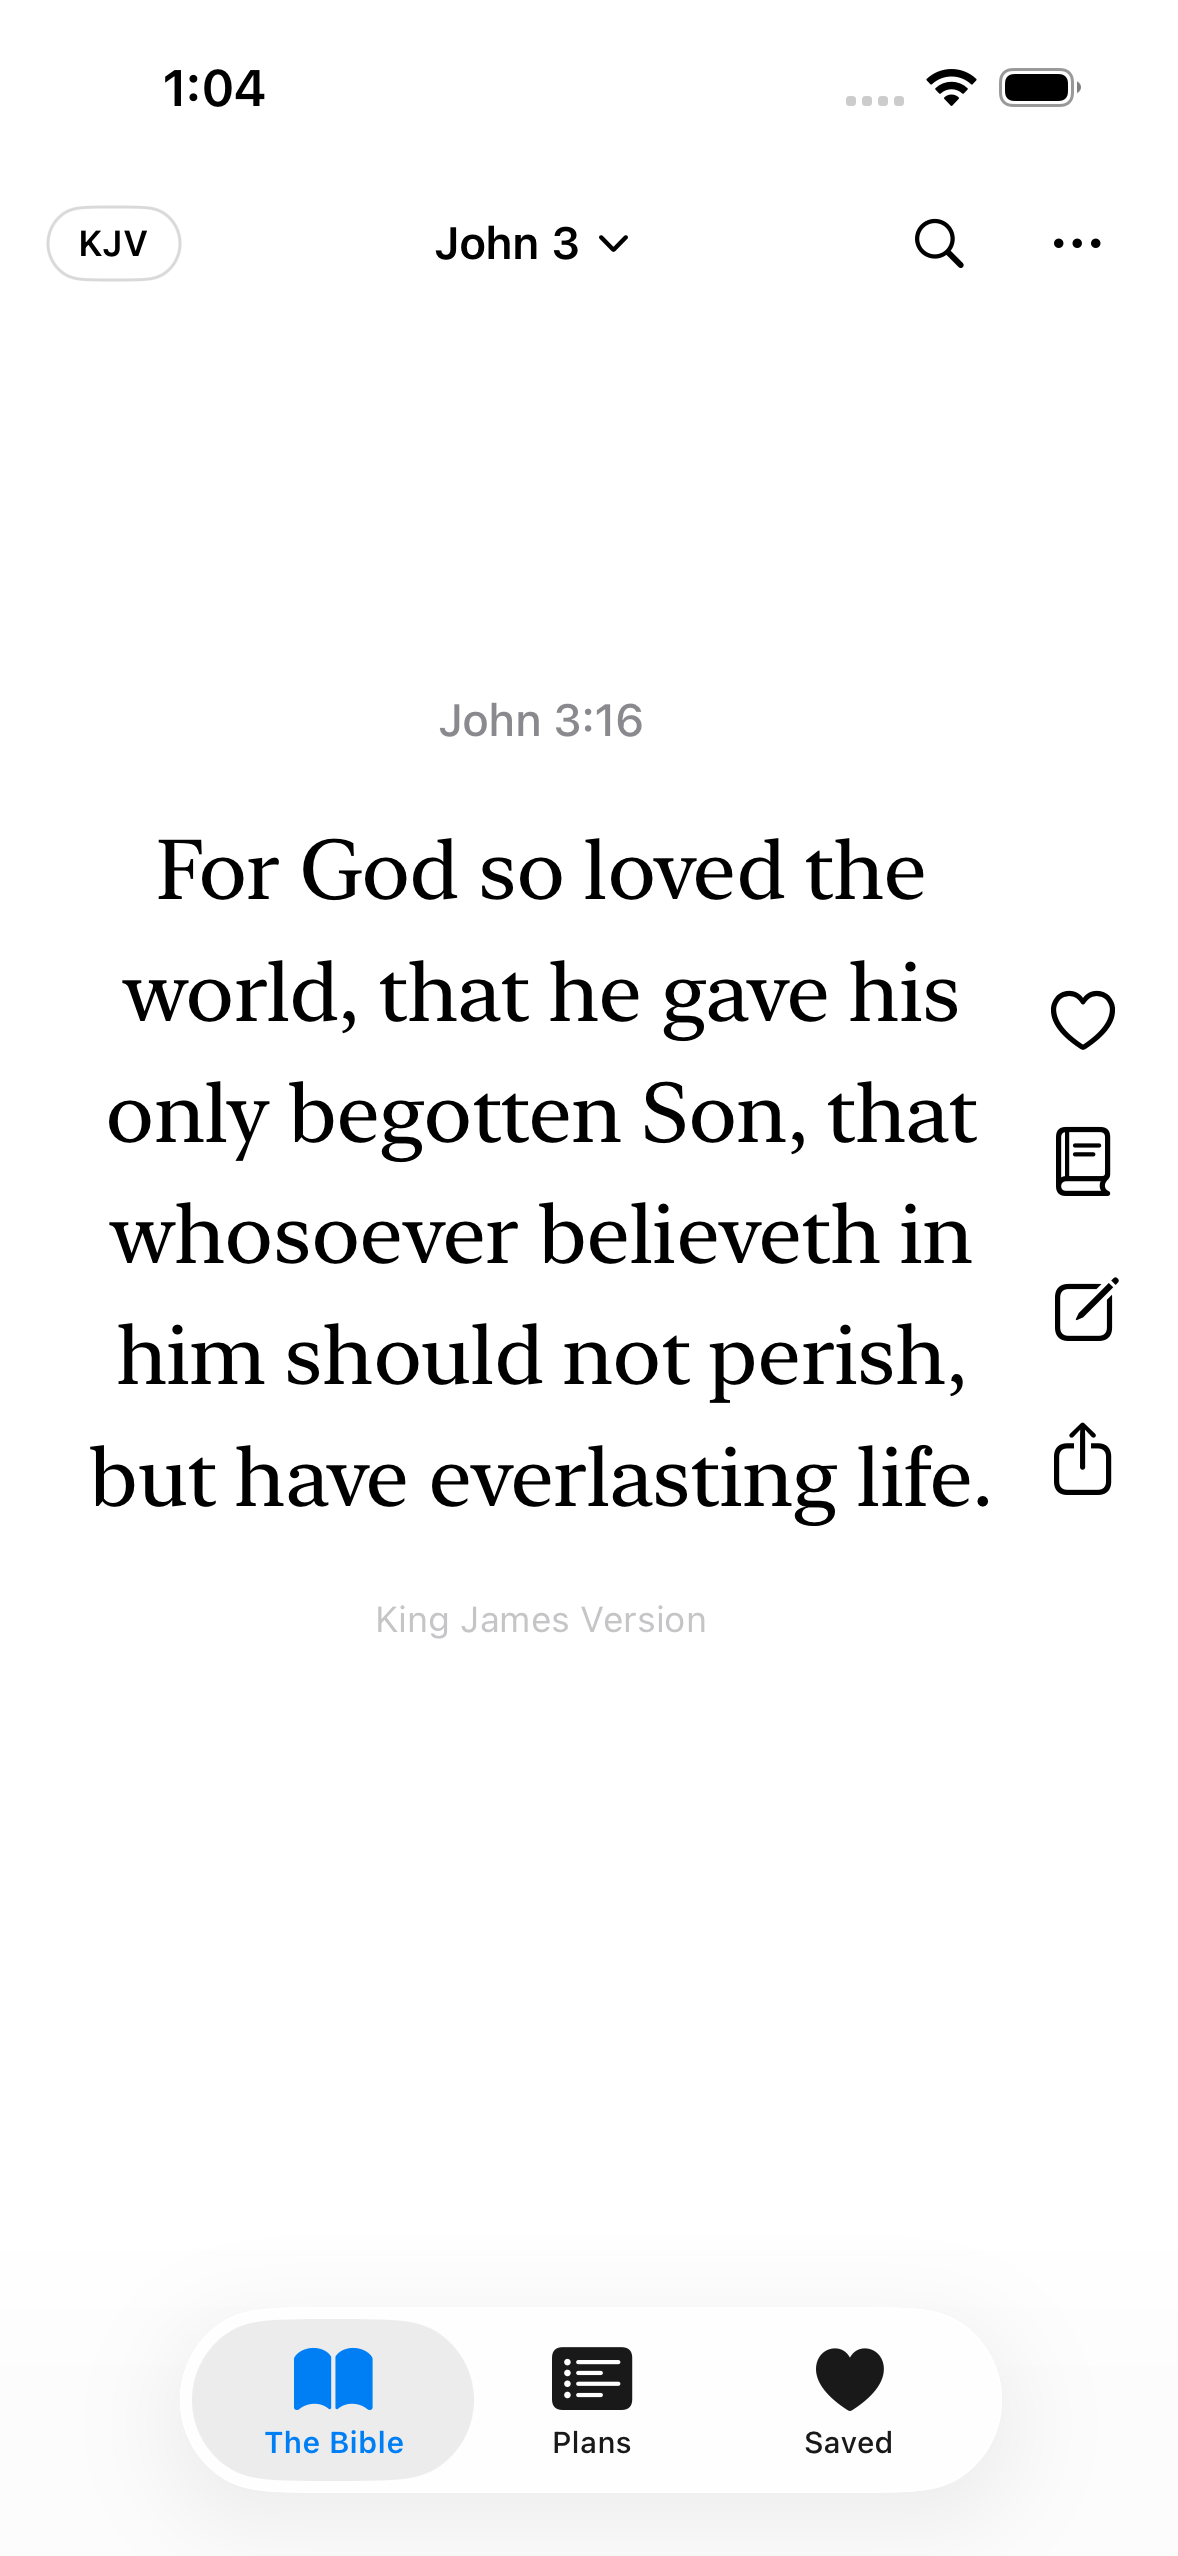
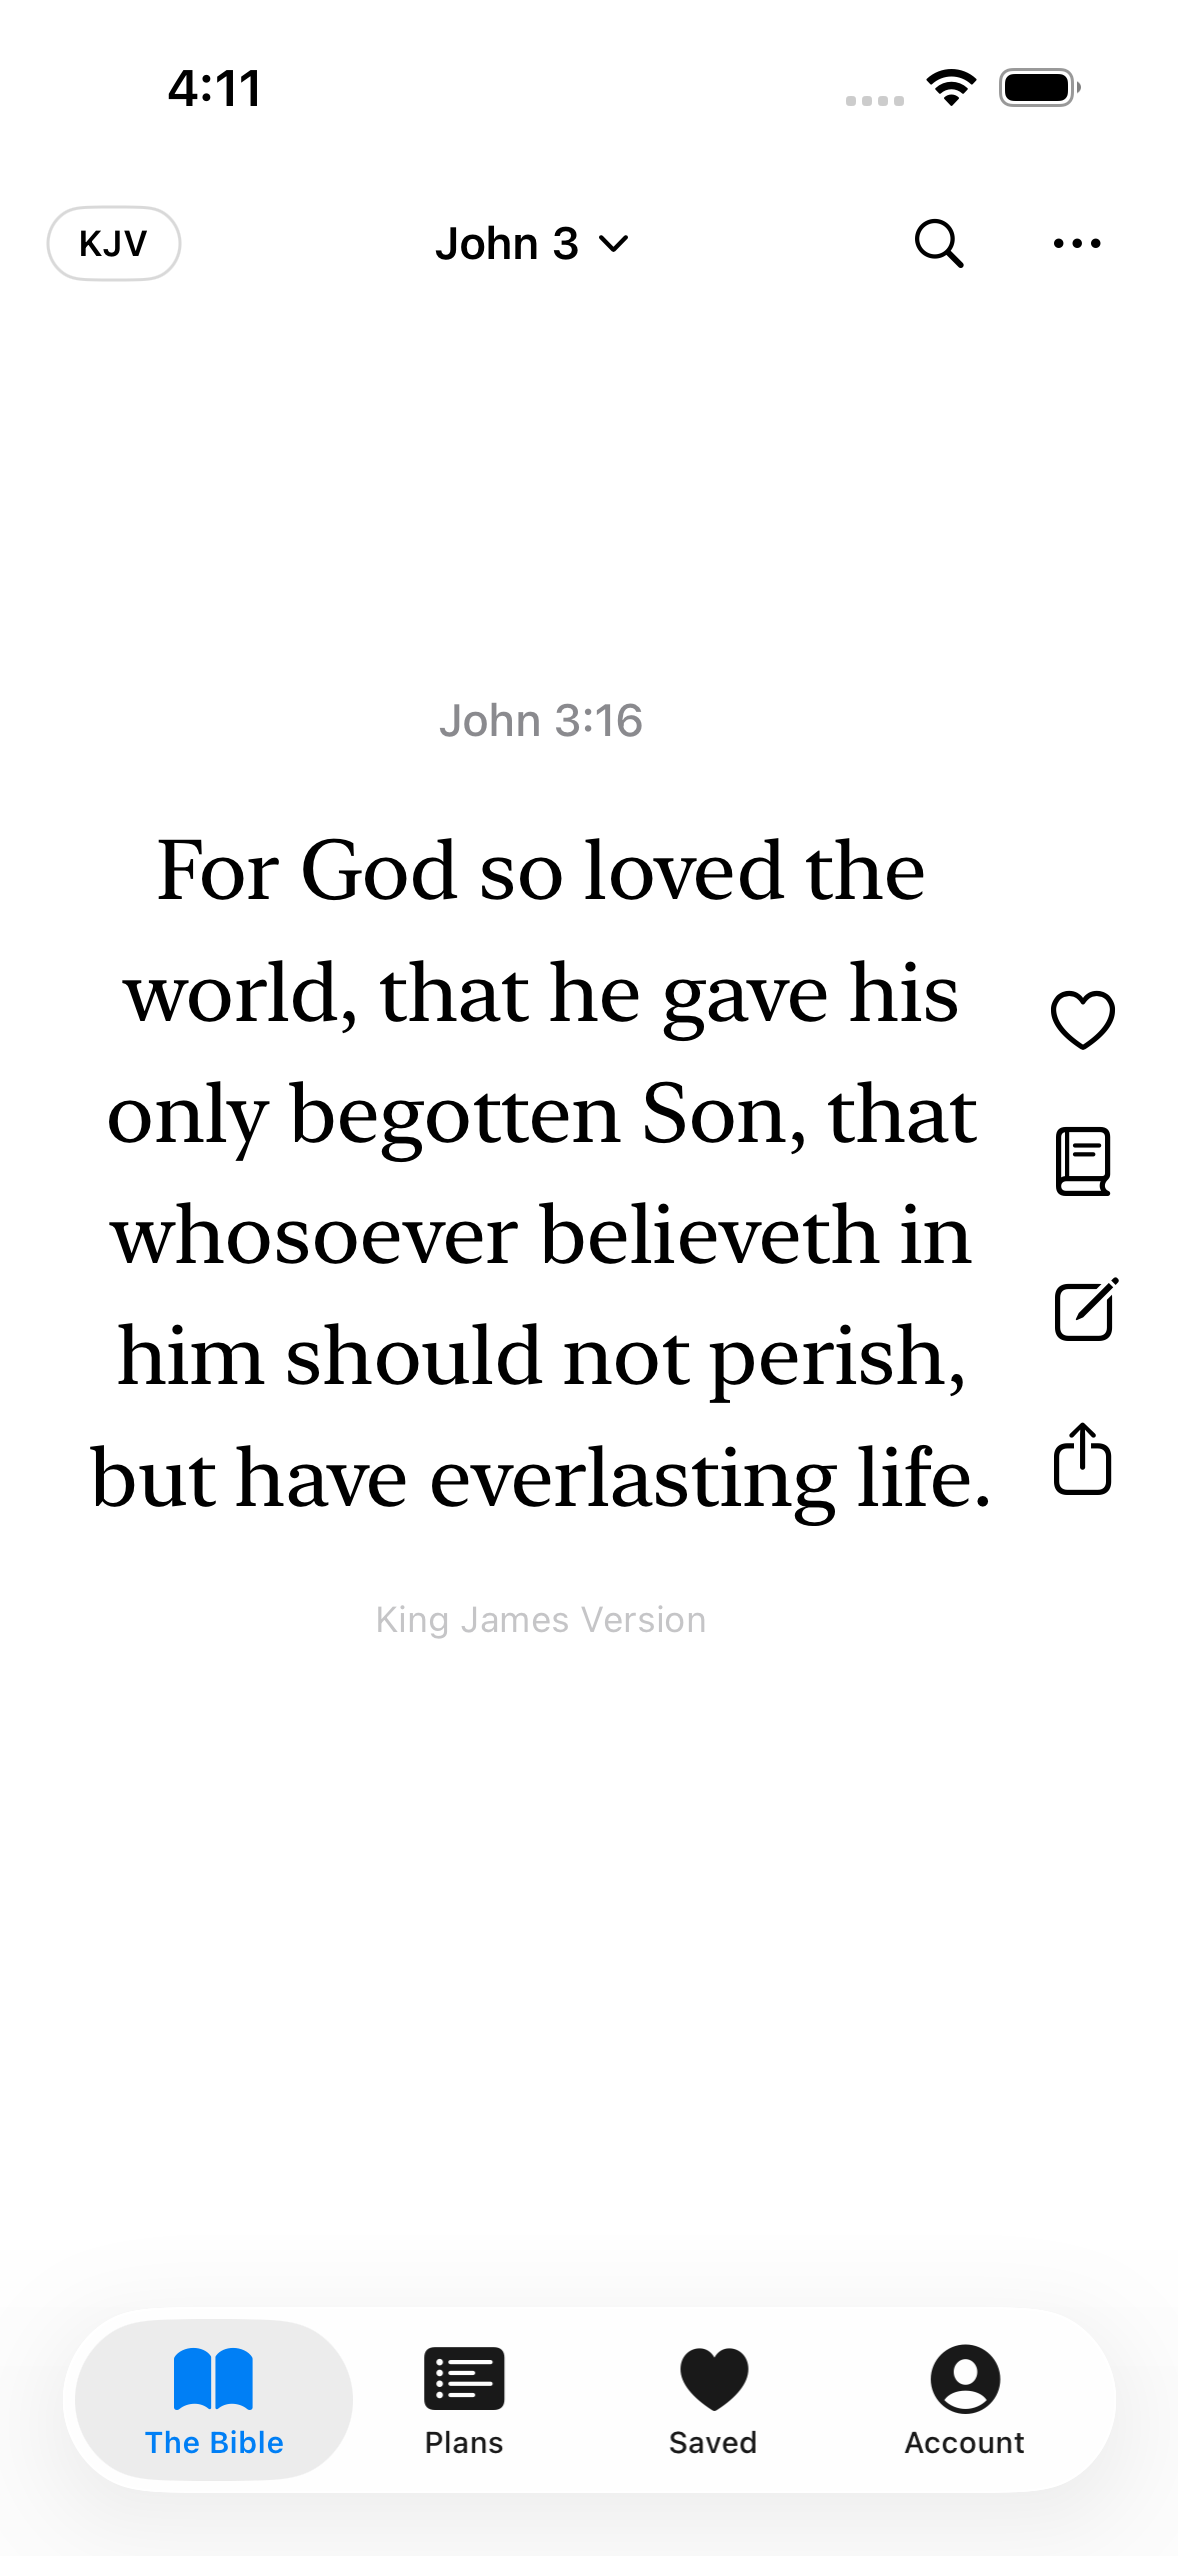
ASO: new captures with the Account tab (iPhone + iPad), six-screen story incl. sharing and account
Claude-Session: https://claude.ai/code/session_0198d1aaV5eD3mU7MrHQ7ZRi

diff --git a/docs/aso/creative-src/render_pro.py b/docs/aso/creative-src/render_pro.py
@@ -13,16 +13,13 @@ TOP, BOTTOM = (251, 248, 243), (236, 229, 216)
 
 STORY = [
     ('reader', 'Scroll\nScripture.', 'The Bible, one verse at a time.'),
-    ('resume', 'Pick up where\nyou left off.', 'Your place is saved as you read.'),
-    ('plans', 'A little reading.\nEvery day.', 'Four guided plans. One clear next step.'),
-    ('saved', 'Keep what\nspeaks to you.', 'Save a verse. Add your own reflection.'),
-    ('progress', 'See how far\nyou’ve come.', 'Mark each reading complete.'),
     ('study', 'Explore\nthe passage.', 'Study tools on Apple Intelligence devices.'),
+    ('habit', 'Build a habit\nthat lasts.', 'Finish a reading. Watch your streak grow.'),
+    ('plans', 'A little reading.\nEvery day.', 'Four guided plans. One clear next step.'),
+    ('share', 'Share a verse\nyou love.', 'Send Scripture as a beautiful card.'),
+    ('account', 'Your account.\nYour choice.', 'Optional Sign in with Apple. Delete anytime.'),
 ]
-IPAD = [STORY[0], STORY[2], STORY[3],
-        ('completion', 'Build a habit.\nOne day at a time.', 'Celebrate every completed reading.'),
-        ('onboarding', 'Your plan.\nYour pace.', 'Choose a goal and a daily reading time.'),
-        STORY[5]]
+IPAD = STORY[:5] + [('invite', 'Read with\nsomeone.', 'Invite a friend to follow a plan with you.')]
 
 
 def font(name, size, wght):
